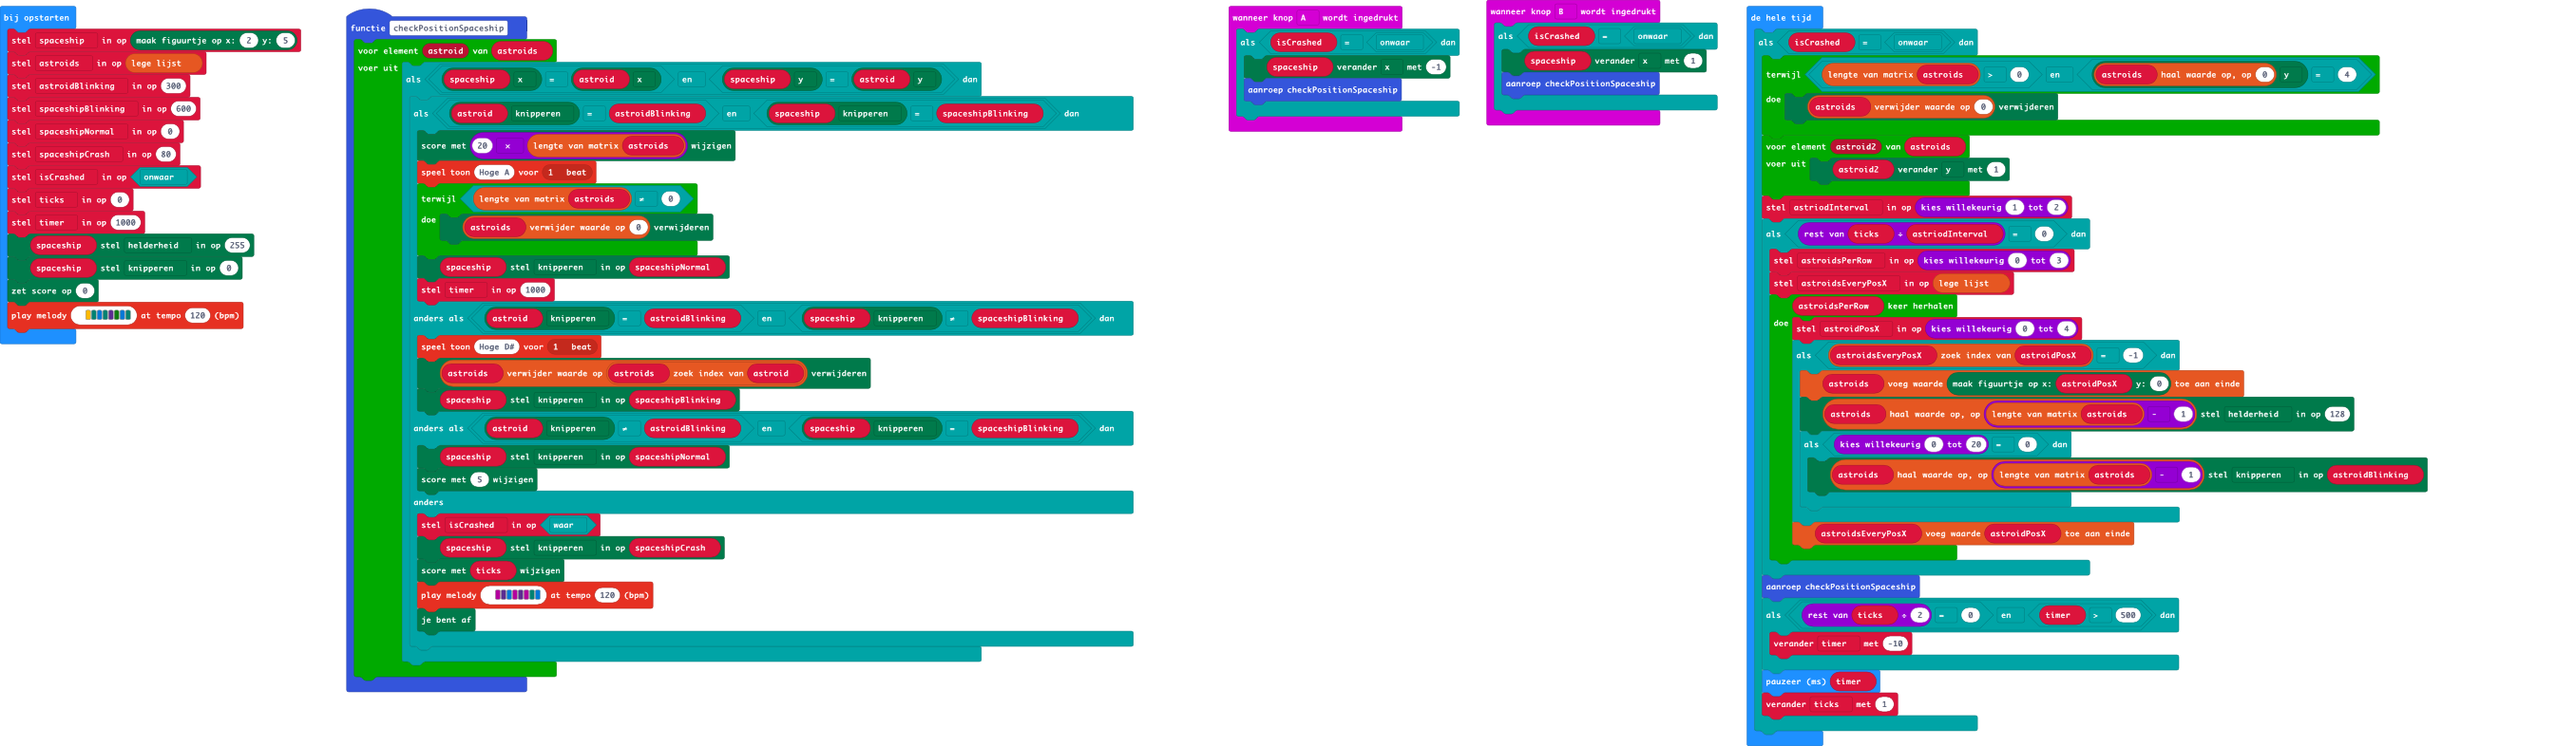
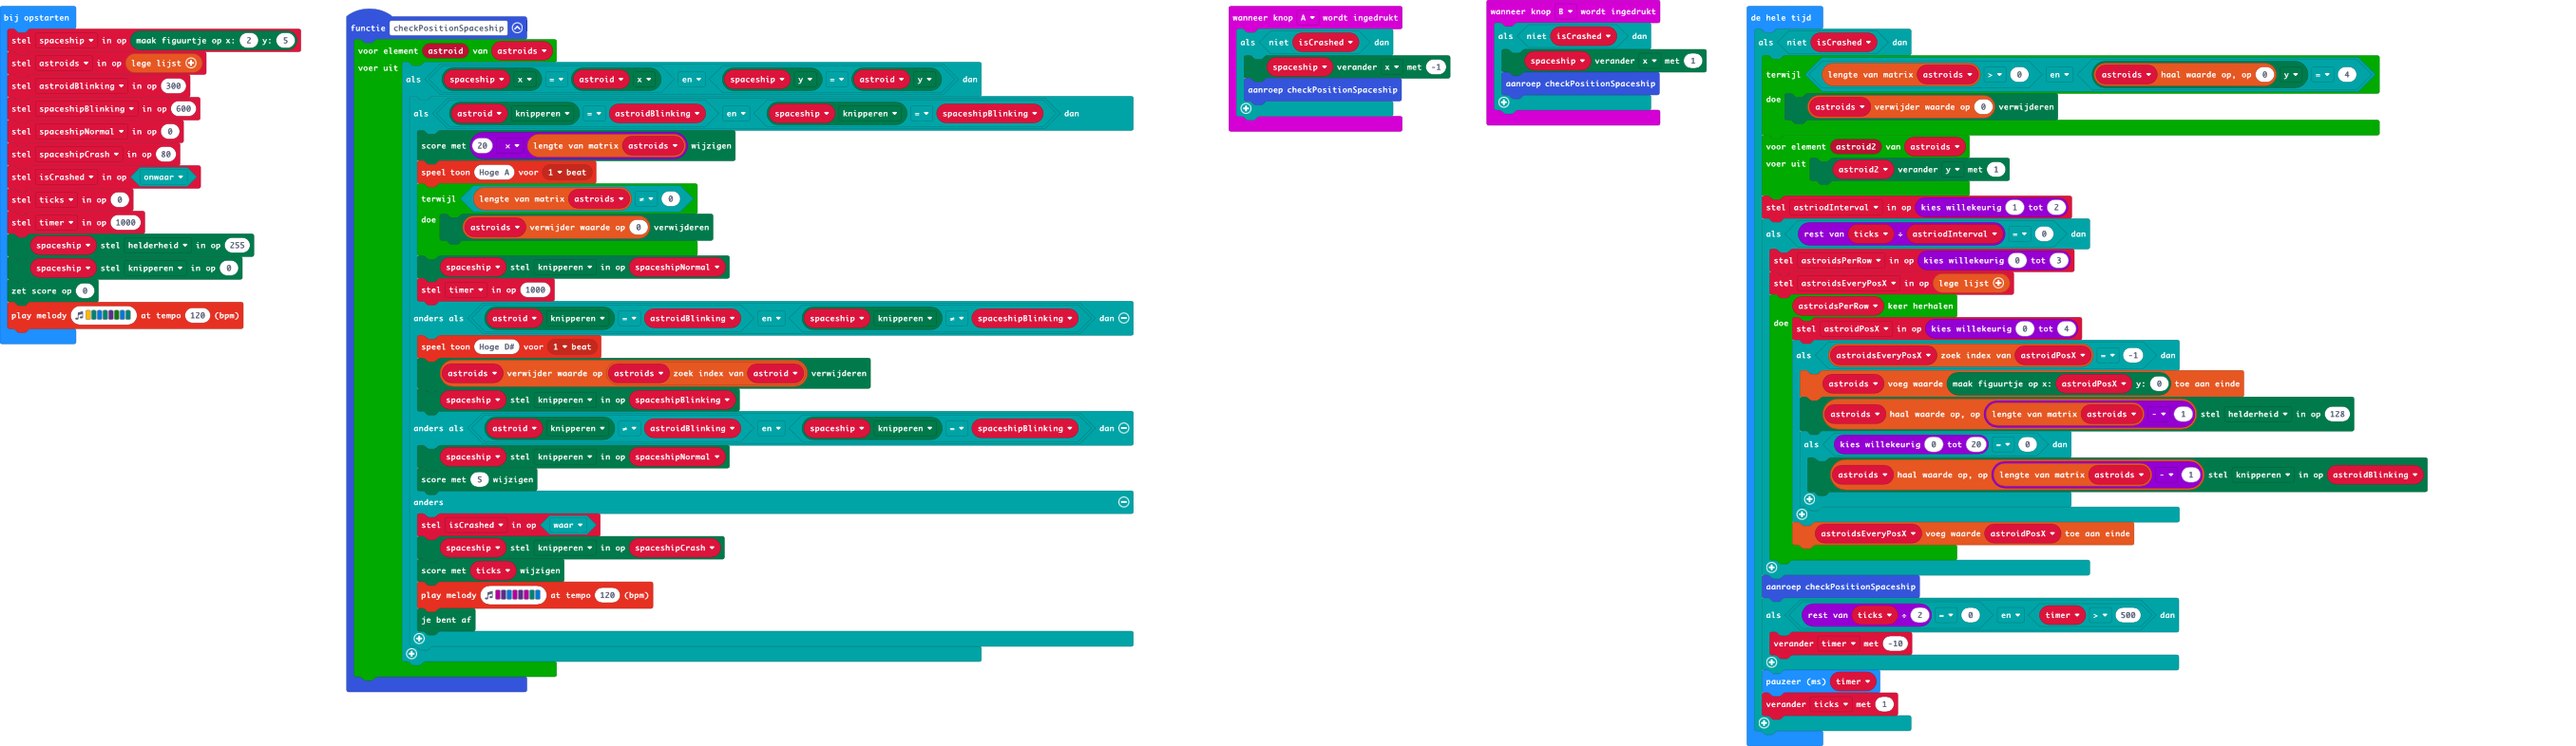
pxt.json, main.blocks, main.ts bijwerken

diff --git a/main.ts b/main.ts
@@ -27,13 +27,13 @@ function checkPositionSpaceship () {
     }
 }
 input.onButtonPressed(Button.A, function () {
-    if (isCrashed == false) {
+    if (!(isCrashed)) {
         spaceship.change(LedSpriteProperty.X, -1)
         checkPositionSpaceship()
     }
 })
 input.onButtonPressed(Button.B, function () {
-    if (isCrashed == false) {
+    if (!(isCrashed)) {
         spaceship.change(LedSpriteProperty.X, 1)
         checkPositionSpaceship()
     }
@@ -65,7 +65,7 @@ spaceship.set(LedSpriteProperty.Blink, 0)
 game.setScore(0)
 music.playMelody("A F E F D G E F ", 120)
 basic.forever(function () {
-    if (isCrashed == false) {
+    if (!(isCrashed)) {
         while (astroids.length > 0 && astroids[0].get(LedSpriteProperty.Y) == 4) {
             astroids.removeAt(0).delete()
         }
